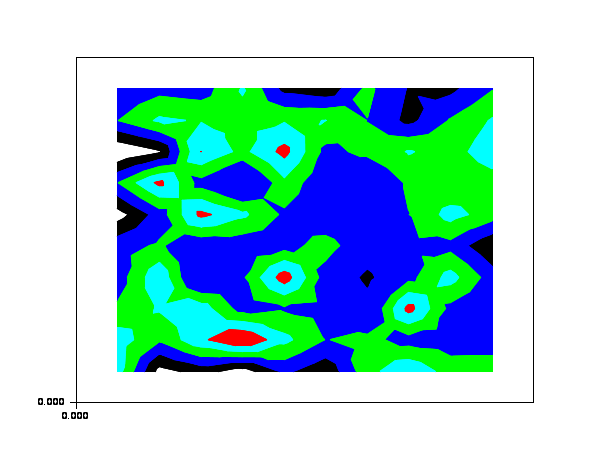
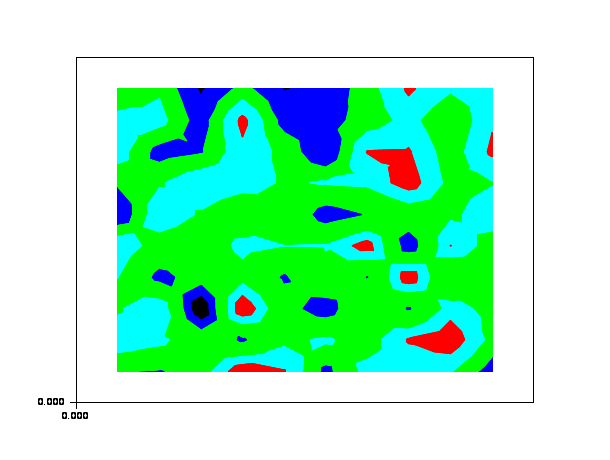
Help generation: Improve log messages and fix bugs in xml

Changed region(s): [[0.1869, 0.1826, 0.8098, 0.8217]]

diff --git a/scilab/modules/helptools/src/java/org/scilab/modules/helptools/external/HTMLScilabHandler.java b/scilab/modules/helptools/src/java/org/scilab/modules/helptools/external/HTMLScilabHandler.java
@@ -19,6 +19,7 @@ import java.util.HashMap;
 import java.util.Map;
 
 import org.xml.sax.Attributes;
+import org.xml.sax.Locator;
 
 import org.scilab.modules.helptools.HTMLDocbookTagConverter;
 import org.scilab.modules.helptools.image.ImageConverter;
@@ -40,6 +41,7 @@ public class HTMLScilabHandler extends ExternalXMLHandler {
     private String baseDir;
     private String outputDir;
     private boolean isLocalized;
+    private int line;
 
     /**
      * Constructor
@@ -80,10 +82,11 @@ public class HTMLScilabHandler extends ExternalXMLHandler {
     /**
      * {@inheritDoc}
      */
-    public StringBuilder startExternalXML(String localName, Attributes attributes) {
+    public StringBuilder startExternalXML(String localName, Attributes attributes, Locator locator) {
         if (localName.equals("image")) {
             String v = attributes.getValue("localized");
             isLocalized = "true".equalsIgnoreCase(v);
+            line = locator.getLineNumber();
         }
 
         if (IMAGE.equals(localName)) {
@@ -106,9 +109,10 @@ public class HTMLScilabHandler extends ExternalXMLHandler {
             if (dotpos != -1) {
                 baseName = baseName.substring(0, dotpos);
             }
+            String language = ((HTMLDocbookTagConverter) getConverter()).getLanguage();
             String fileName;
             if (isLocalized) {
-                fileName = baseName + BASENAME + ((HTMLDocbookTagConverter) getConverter()).getLanguage() + BASENAME + (compt++) + ".png";
+                fileName = baseName + BASENAME + language + BASENAME + (compt++) + ".png";
             } else {
                 fileName = baseName + BASENAME + (compt++) + ".png";
             }
@@ -123,7 +127,7 @@ public class HTMLScilabHandler extends ExternalXMLHandler {
                 baseImagePath = ((HTMLDocbookTagConverter) getConverter()).getBaseImagePath();
             }
             if (isLocalized || (existing = getExistingFile(outputDir, fileName)) == null) {
-                ret = ImageConverter.getImageByCode(currentFileName, buffer.toString(), attributes, "image/scilab", f, baseDir + f.getName(), baseImagePath);
+                ret = ImageConverter.getImageByCode(currentFileName, buffer.toString(), attributes, "image/scilab", f, baseDir + f.getName(), baseImagePath, line, language, isLocalized);
             } else {
                 ret = ImageConverter.getImageByFile(attributes, null, existing.getAbsolutePath(), outputDir, ".", baseImagePath);
                 ret = ScilabImageConverter.getInstance().getHTMLCodeToReturn(buffer.toString(), ret);
@@ -143,10 +147,10 @@ public class HTMLScilabHandler extends ExternalXMLHandler {
         try {
             final File outDir = new File(outputDir).getCanonicalFile();
             FileFilter filter = new FileFilter() {
-                    public boolean accept(File f) {
-                        return f.isDirectory() && !f.equals(outDir);
-                    }
-                };
+                public boolean accept(File f) {
+                    return f.isDirectory() && !f.equals(outDir);
+                }
+            };
             File[] dirs = outDir.getParentFile().listFiles(filter);
             File im = new File(filename);
             for (File dir : dirs) {

diff --git a/scilab/modules/helptools/src/java/org/scilab/modules/helptools/external/HTMLMathMLHandler.java b/scilab/modules/helptools/src/java/org/scilab/modules/helptools/external/HTMLMathMLHandler.java
@@ -17,6 +17,7 @@ import java.util.HashMap;
 import java.util.Map;
 
 import org.xml.sax.Attributes;
+import org.xml.sax.Locator;
 
 import org.scilab.modules.helptools.HTMLDocbookTagConverter;
 import org.scilab.modules.helptools.image.ImageConverter;
@@ -37,6 +38,7 @@ public class HTMLMathMLHandler extends ExternalXMLHandler {
     private String baseDir;
     private String outputDir;
     private boolean isLocalized;
+    private int line;
 
     /**
      * Constructor
@@ -77,10 +79,11 @@ public class HTMLMathMLHandler extends ExternalXMLHandler {
     /**
      * {@inheritDoc}
      */
-    public StringBuilder startExternalXML(String localName, Attributes attributes) {
+    public StringBuilder startExternalXML(String localName, Attributes attributes, Locator locator) {
         if (MATH.equals(localName)) {
             String v = attributes.getValue(getScilabURI(), "localized");
             isLocalized = "true".equalsIgnoreCase(v);
+            line = locator.getLineNumber();
         }
 
         recreateTag(buffer, localName, attributes);
@@ -103,9 +106,9 @@ public class HTMLMathMLHandler extends ExternalXMLHandler {
                 f = new File(outputDir, BASENAME + getConverter().getCurrentBaseName() + "_" + language + "_" + (compt++) + ".png");
             } else {
                 if ("ru_RU".equals(language) && HTMLDocbookTagConverter.containsCyrillic(buffer)) {
-                    System.err.println("Warning: MathML code in " + getConverter().getCurrentFileName() + " contains cyrillic character. The tag <math> should contain the attribute scilab:localized=\"true\"");
+                    System.err.println("Warning: MathML code in " + getConverter().getCurrentFileName() + " at line " + line + " contains cyrillic character. The tag <math> should contain the attribute scilab:localized=\"true\"");
                 } else if ("ja_JP".equals(language) && HTMLDocbookTagConverter.containsCJK(buffer)) {
-                    System.err.println("Warning: MathML code in " + getConverter().getCurrentFileName() + " contains CJK character. The tag <math> should contain the attribute scilab:localized=\"true\"");
+                    System.err.println("Warning: MathML code in " + getConverter().getCurrentFileName() + " at line " + line + " contains CJK character. The tag <math> should contain the attribute scilab:localized=\"true\"");
                 }
                 f = new File(outputDir, BASENAME + getConverter().getCurrentBaseName() + "_" + (compt++) + ".png");
             }
@@ -117,7 +120,7 @@ public class HTMLMathMLHandler extends ExternalXMLHandler {
                 baseImagePath = ((HTMLDocbookTagConverter) getConverter()).getBaseImagePath();
             }
 
-            String ret = ImageConverter.getImageByCode(getConverter().getCurrentFileName(), buffer.toString(), attributes, "image/mathml", f, baseDir + f.getName(), baseImagePath);
+            String ret = ImageConverter.getImageByCode(getConverter().getCurrentFileName(), buffer.toString(), attributes, "image/mathml", f, baseDir + f.getName(), baseImagePath, line, language, isLocalized);
             buffer.setLength(0);
 
             return ret;

diff --git a/scilab/modules/helptools/src/java/org/scilab/modules/helptools/external/HTMLSVGHandler.java b/scilab/modules/helptools/src/java/org/scilab/modules/helptools/external/HTMLSVGHandler.java
@@ -17,6 +17,7 @@ import java.util.HashMap;
 import java.util.Map;
 
 import org.xml.sax.Attributes;
+import org.xml.sax.Locator;
 
 import org.scilab.modules.helptools.HTMLDocbookTagConverter;
 import org.scilab.modules.helptools.image.ImageConverter;
@@ -37,6 +38,7 @@ public class HTMLSVGHandler extends ExternalXMLHandler {
     private String baseDir;
     private String outputDir;
     private boolean isLocalized;
+    private int line;
 
     /**
      * Constructor
@@ -76,10 +78,11 @@ public class HTMLSVGHandler extends ExternalXMLHandler {
     /**
      * {@inheritDoc}
      */
-    public StringBuilder startExternalXML(String localName, Attributes attributes) {
+    public StringBuilder startExternalXML(String localName, Attributes attributes, Locator locator) {
         if (SVG.equals(localName)) {
             String v = attributes.getValue(getScilabURI(), "localized");
             isLocalized = "true".equalsIgnoreCase(v);
+            line = locator.getLineNumber();
         }
 
         recreateTag(buffer, localName, attributes);
@@ -102,9 +105,9 @@ public class HTMLSVGHandler extends ExternalXMLHandler {
                 f = new File(outputDir, BASENAME + getConverter().getCurrentBaseName() + "_" + language + "_" + (compt++) + ".png");
             } else {
                 if ("ru_RU".equals(language) && HTMLDocbookTagConverter.containsCyrillic(buffer)) {
-                    System.err.println("Warning: SVG code in " + getConverter().getCurrentFileName() + " contains cyrillic character. The tag <svg> should contain the attribute scilab:localized=\"true\"");
+                    System.err.println("Warning: SVG code in " + getConverter().getCurrentFileName() + " at line " + line + " contains cyrillic character. The tag <svg> should contain the attribute scilab:localized=\"true\"");
                 } else if ("ja_JP".equals(language) && HTMLDocbookTagConverter.containsCJK(buffer)) {
-                    System.err.println("Warning: SVG code in " + getConverter().getCurrentFileName() + " contains CJK character. The tag <svg> should contain the attribute scilab:localized=\"true\"");
+                    System.err.println("Warning: SVG code in " + getConverter().getCurrentFileName() + " at line " + line + " contains CJK character. The tag <svg> should contain the attribute scilab:localized=\"true\"");
                 }
                 f = new File(outputDir, BASENAME + getConverter().getCurrentBaseName() + "_" + (compt++) + ".png");
             }
@@ -115,7 +118,7 @@ public class HTMLSVGHandler extends ExternalXMLHandler {
                 baseImagePath = ((HTMLDocbookTagConverter) getConverter()).getBaseImagePath();
             }
 
-            String ret = ImageConverter.getImageByCode(getConverter().getCurrentFileName(), buffer.toString(), attributes, "image/svg", f, baseDir + f.getName(), baseImagePath);
+            String ret = ImageConverter.getImageByCode(getConverter().getCurrentFileName(), buffer.toString(), attributes, "image/svg", f, baseDir + f.getName(), baseImagePath, line, language, isLocalized);
             buffer.setLength(0);
 
             return ret;

diff --git a/scilab/modules/helptools/src/java/org/scilab/modules/helptools/image/ImageConverter.java b/scilab/modules/helptools/src/java/org/scilab/modules/helptools/image/ImageConverter.java
@@ -220,7 +220,7 @@ public final class ImageConverter {
      * @param imageFile the filename
      * @return the HTML code to insert the image
      */
-    public static String getImageByCode(String currentFile, String code, Map<String, String> attrs, String mime, File imageFile, String imageName, String baseImagePath) {
+    public static String getImageByCode(String currentFile, String code, Map<String, String> attrs, String mime, File imageFile, String imageName, String baseImagePath, int lineNumber, String language, boolean isLocalized) {
         File current = null;
         try {
             current = new File(new URI(currentFile));
@@ -228,13 +228,21 @@ public final class ImageConverter {
 
         ExternalImageConverter conv = externalConverters.get(mime);
         if (conv == null) {
-            System.err.println("In file " + currentFile + "invalid code:\n" + code);
+            System.err.println("In file " + currentFile + " at line " + lineNumber + ": invalid code:\n" + code);
             return null;
         }
 
-        // if (conv.mustRegenerate() || current == null || current.lastModified() > imageFile.lastModified()) {
+        if (!imageFile.exists() && md5s != null) {
+            md5s.remove(imageFile.getName());
+        }
+
         if (!compareMD5(code, imageFile.getName())) {
-            System.err.println("Info: Create image " + imageFile.getName());
+            if (isLocalized || language.equals("en_US")) {
+                System.err.println("Info: Create image " + imageFile.getName() + " from line " + lineNumber + " in " + current.getName());
+            } else if (!language.equals("en_US")) {
+                System.err.println("Warning: Overwrite image " + imageFile.getName() + " from line " + lineNumber + " in " + current.getName() + ". Check the code or use scilab:localized=\"true\" attribute.");
+            }
+
             return conv.convertToImage(currentFile, code, attrs, imageFile, imageName);
         }
 

diff --git a/scilab/modules/helptools/src/java/org/scilab/modules/helptools/image/ScilabImageConverter.java b/scilab/modules/helptools/src/java/org/scilab/modules/helptools/image/ScilabImageConverter.java
@@ -129,9 +129,10 @@ public class ScilabImageConverter implements ExternalImageConverter {
     private final String convertToPNG(String currentFile, String code, File imageFile, String imageName) {
         buffer.append("function _generate_image_from_doc\n");
         buffer.append("__olddrv__=driver();\n");
-        buffer.append("disp(\"Generate image " + imageName + " from Scilab code from file " + new File(currentFile).getName() + "\");\n");
+        buffer.append("disp(\"Generate image " + imageName + " from Scilab code from file " + new File(currentFile).getName() + "\");");
         buffer.append("driver(\"png\");\n");
         buffer.append("xinit(\"").append(imageFile.getAbsolutePath()).append("\");\n");
+        buffer.append("clf();\n");
         buffer.append(code).append("\n");
         buffer.append("___f___=gcf();___f___.anti_aliasing=\"2x\";clear(\"___f___\");\n");
         buffer.append("xend();\n");

diff --git a/scilab/modules/helptools/src/java/org/scilab/modules/helptools/external/ExternalXMLHandler.java b/scilab/modules/helptools/src/java/org/scilab/modules/helptools/external/ExternalXMLHandler.java
@@ -13,6 +13,7 @@
 package org.scilab.modules.helptools.external;
 
 import org.xml.sax.Attributes;
+import org.xml.sax.Locator;
 
 import org.scilab.modules.helptools.DocbookTagConverter;
 
@@ -20,7 +21,7 @@ public abstract class ExternalXMLHandler {
 
     private DocbookTagConverter converter;
 
-    public abstract StringBuilder startExternalXML(String localName, Attributes attributes);
+    public abstract StringBuilder startExternalXML(String localName, Attributes attributes, Locator locator);
 
     public abstract String endExternalXML(String localName);
 

diff --git a/scilab/modules/helptools/src/java/org/scilab/modules/helptools/HTMLDocbookTagConverter.java b/scilab/modules/helptools/src/java/org/scilab/modules/helptools/HTMLDocbookTagConverter.java
@@ -1173,7 +1173,7 @@ public class HTMLDocbookTagConverter extends DocbookTagConverter implements Temp
         if (fs == null) {
             attributes.put("fontsize", "16");
         }
-        return ImageConverter.getImageByCode(currentFileName, contents, attributes, "image/latex", f, imageDir + "/" + f.getName(), getBaseImagePath());
+        return ImageConverter.getImageByCode(currentFileName, contents, attributes, "image/latex", f, imageDir + "/" + f.getName(), getBaseImagePath(), locator.getLineNumber(), language, isLocalized);
     }
 
     /**

diff --git a/scilab/modules/helptools/src/java/org/scilab/modules/helptools/DocbookTagConverter.java b/scilab/modules/helptools/src/java/org/scilab/modules/helptools/DocbookTagConverter.java
@@ -299,7 +299,7 @@ public class DocbookTagConverter extends DefaultHandler {
                 exceptionOccured(new SAXException("uri " + uri + " not handled"));
                 return;
             }
-            StringBuilder buf = h.startExternalXML(localName, attributes);
+            StringBuilder buf = h.startExternalXML(localName, attributes, locator);
             if (buf != null) {
                 DocbookElement elem = baseElement.getNewInstance(localName, uri, null);
                 elem.setStringBuilder(buf);
